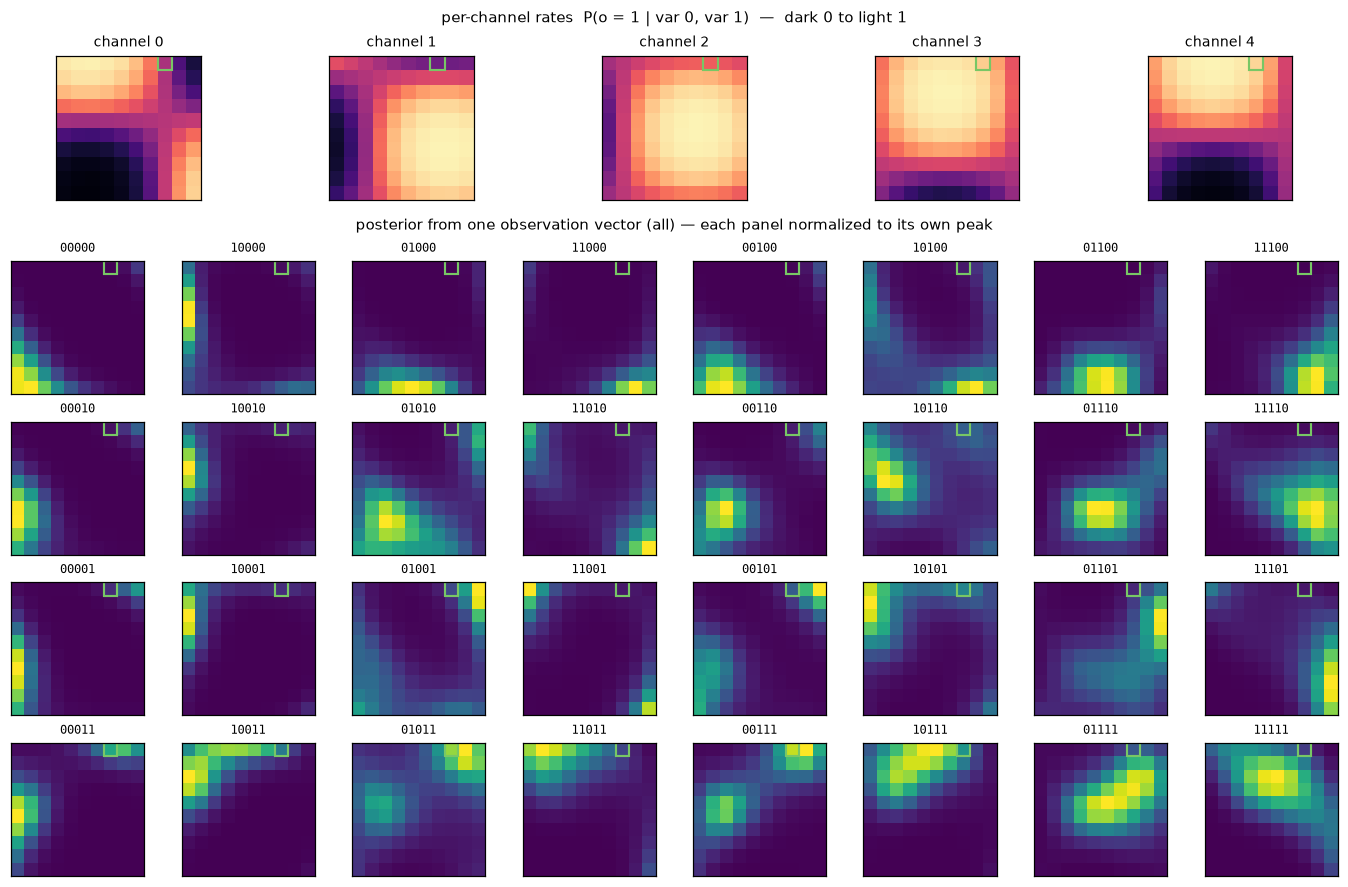
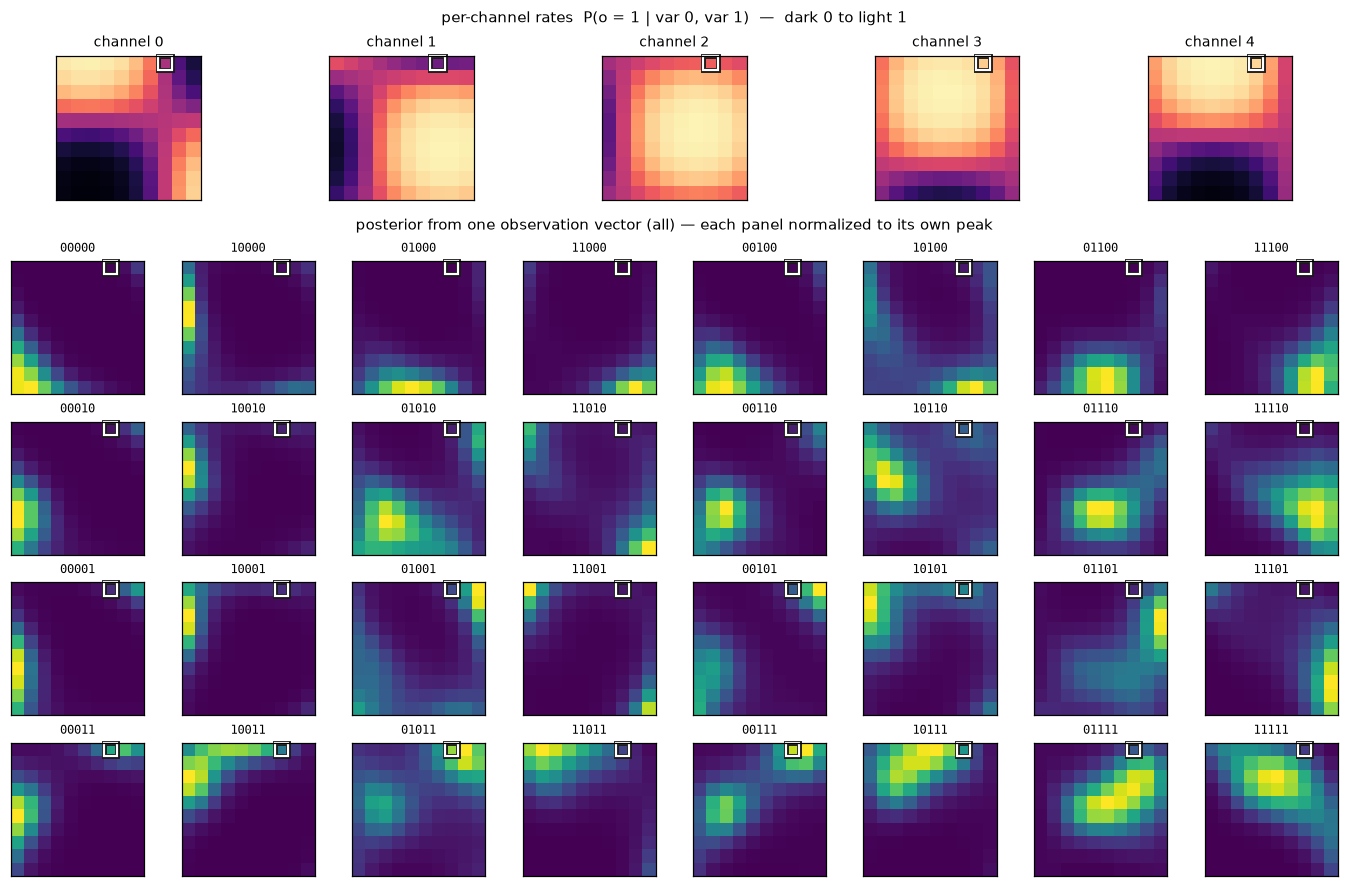
Give colour a single meaning in the likelihood figures
Green and orange were carrying three jobs at once: which variable a vector
belongs to, the window on the standard pattern, and the realization that
actually occurred. The window and the truth are not variables, so they no
longer borrow a variable's colour.

The window box now takes the colour of the variable whose phase range each
pair of edges spans, which doubles as a label for the axes. The true
realization is outlined in white over a dark stroke -- plain white disappears
at the light end of `magma` and black at the dark end, so it is drawn with
both and stays readable against any rate. Same mark in the evidence figure,
where it previously reused the goal colour too.

diff --git a/src/coggrid/viz/plots.py b/src/coggrid/viz/plots.py
@@ -26,6 +26,7 @@ from typing import Any
 
 import matplotlib.pyplot as plt
 import numpy as np
+from matplotlib import patheffects
 from matplotlib.colors import LinearSegmentedColormap
 from matplotlib.figure import Figure
 from matplotlib.patches import Rectangle
@@ -740,6 +741,24 @@ def _wave_at(cfg, waveform: np.ndarray, position: np.ndarray) -> np.ndarray:
 PHASE_COLOR = "#7b52ab"
 
 
+def _mark_cell(ax: plt.Axes, x: float, y: float, lw: float = 1.8) -> None:
+    """Outline the realization that actually occurred.
+
+    Deliberately *not* a variable colour: green and orange say which variable an
+    element belongs to, and the truth belongs to both. White alone would vanish
+    at the light end of ``magma`` and black at the dark end, so it is drawn white
+    over a dark stroke and stays legible against any rate.
+    """
+    # clip_on=False so the stroke stays a closed box when the truth sits on an
+    # edge cell, rather than being shaved off by the axes limit.
+    patch = Rectangle((x - 0.5, y - 0.5), 1, 1, edgecolor="white",
+                      facecolor="none", lw=lw, clip_on=False)
+    patch.set_path_effects(
+        [patheffects.withStroke(linewidth=lw + 1.8, foreground="#1a1a1a")]
+    )
+    ax.add_patch(patch)
+
+
 def _standard_waveform(cfg, n_samples: int = 2001) -> np.ndarray:
     """The one potential waveform every variable is a phase-shifted copy of.
 
@@ -808,11 +827,16 @@ def plot_interaction_phases(
        they differ — that asymmetry is what stops the joint from being symmetric.
     2. **Phase.** One waveform, read from two starting points. Both variables
        sample the same curve; their strengths only say where to start.
-    3. **The standard pattern**, with the window this channel selects. The
-       pattern is periodic, so it is drawn over two turns and the window is a
-       single box — a window that runs off one edge simply continues on the next
-       copy.
-    4. **The rate table** that window yields.
+    3. **The standard pattern**, with the window this channel selects. Each pair
+       of box edges takes the colour of the variable whose phase range it spans.
+       The pattern is periodic, so it is drawn over two turns and the window
+       stays a single box — one that runs off an edge continues on the next copy.
+    4. **The rate table** that window yields, with the realization that actually
+       occurred outlined in white.
+
+    Colour means exactly one thing here: **which variable** an element belongs
+    to. The interaction strengths and the true realization belong to neither
+    variable, so they get their own marks rather than borrowing a variable's.
 
     Comparing the rows is the point: same waveform, same pattern, different
     angles, different window, different table. Two channels are drawn rather than
@@ -919,8 +943,12 @@ def plot_interaction_phases(
                   extent=(0, 2 * n_roll, 0, 2 * n_roll))
         lo_i = np.mod(z_ij * n_roll - (n_r - 1), n_roll)
         lo_j = np.mod(z_ji * n_roll - (n_r - 1), n_roll)
-        ax.add_patch(Rectangle((lo_i, lo_j), n_r - 1, n_r - 1, edgecolor=palette.goal,
-                               facecolor="none", lw=2.2))
+        span = n_r - 1
+        # Each pair of edges is drawn in the colour of the variable whose phase
+        # range it spans, so the box says which axis is which.
+        for offset in (0, span):
+            ax.plot([lo_i, lo_i + span], [lo_j + offset] * 2, color=colour_i, lw=2.4)
+            ax.plot([lo_i + offset] * 2, [lo_j, lo_j + span], color=colour_j, lw=2.4)
         for edge in (n_roll,):  # where the pattern starts repeating
             ax.axvline(edge, color="white", lw=0.8, alpha=0.45)
             ax.axhline(edge, color="white", lw=0.8, alpha=0.45)
@@ -932,8 +960,7 @@ def plot_interaction_phases(
         ax = axes[row][3]
         table = _pair_slice(batch.rates[episode, channel], i, j, cfg.n_contexts)
         ax.imshow(table.T, origin="lower", cmap="magma", vmin=0.0, vmax=1.0)
-        ax.add_patch(Rectangle((truth[i] - 0.5, truth[j] - 0.5), 1, 1,
-                               edgecolor=palette.goal, facecolor="none", lw=2.0))
+        _mark_cell(ax, truth[i], truth[j], lw=2.0)
         ax.set_title("the rate table", fontsize=10)
         ax.set_xlabel(f"var {i} realization", fontsize=9)
         ax.set_ylabel(f"var {j} realization", fontsize=9)
@@ -1032,8 +1059,7 @@ def plot_evidence_likelihood(
 
     def _mark(ax):
         if cfg.n_contexts > 1:
-            ax.add_patch(Rectangle((truth[i] - 0.5, truth[j] - 0.5), 1, 1,
-                                   edgecolor=palette.goal, facecolor="none", lw=1.4))
+            _mark_cell(ax, truth[i], truth[j], lw=1.4)
 
     channel_axes = top.subplots(1, cfg.n_observations, squeeze=False)[0]
     for c, ax in enumerate(channel_axes):

diff --git a/README.md b/README.md
@@ -155,10 +155,16 @@ One row per observation channel, reading left to right:
 2. **Phase.** The potential over realizations is a single sinusoid shifted by
    `−2π · likelihood_freq · z`. Both variables read the *same* waveform; their
    strengths only say where to start.
-3. **The standard pattern**, with the window this channel selects. Phase is
-   periodic, so the pattern is drawn over two turns: a window that runs off one
-   edge continues on the next copy, and stays a single box.
-4. **The rate table** that window yields.
+3. **The standard pattern**, with the window this channel selects. Each pair of
+   box edges takes the colour of the variable whose phase range it spans. Phase
+   is periodic, so the pattern is drawn over two turns: a window that runs off
+   one edge continues on the next copy, and stays a single box.
+4. **The rate table** that window yields, with the realization that actually
+   occurred outlined in white.
+
+Colour means exactly one thing throughout: **which variable** an element belongs
+to. Interaction strengths and the true realization belong to neither, so they get
+their own marks rather than borrowing a variable's.
 
 Comparing the rows is the point: same waveform, same pattern, different angles,
 different window, different table. Embeddings are orthogonalized across channels,
